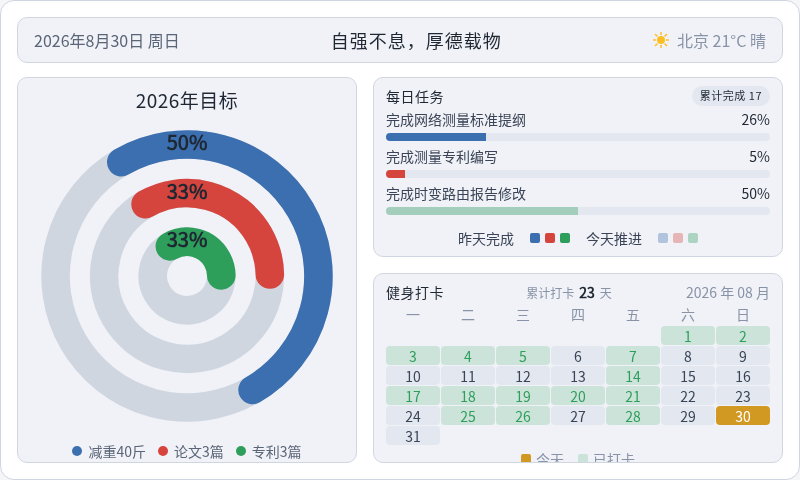
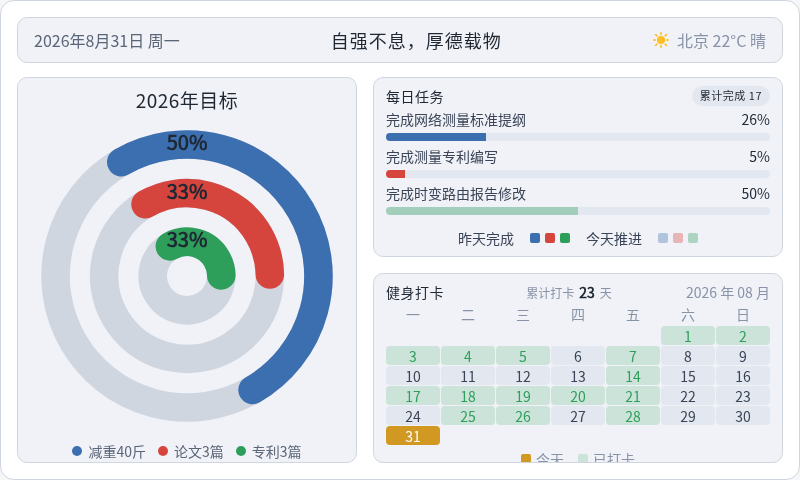
chore: 每日看板刷新 2026-08-31

Changed region(s): [[0.875, 0.8438, 0.9688, 0.9062], [0.4688, 0.875, 0.5625, 0.9375], [0.1875, 0.0625, 0.2188, 0.0938]]

diff --git a/output/dashboard.html b/output/dashboard.html
@@ -185,11 +185,11 @@
 <body>
   <div class="dash">
     <div class="topbar">
-      <div class="tb-date" id="tbDate">2026年8月30日 周日</div>
+      <div class="tb-date" id="tbDate">2026年8月31日 周一</div>
       <div class="tb-slogan">自强不息，厚德载物</div>
       <div class="tb-weather">
         <svg width="16" height="16" viewBox="0 0 16 16" aria-hidden="true"><circle cx="8" cy="8" r="4" fill="#fbbf24"/><g stroke="#fbbf24" stroke-width="1.5" stroke-linecap="round"><line x1="8" y1="0.5" x2="8" y2="2.5"/><line x1="8" y1="13.5" x2="8" y2="15.5"/><line x1="0.5" y1="8" x2="2.5" y2="8"/><line x1="13.5" y1="8" x2="15.5" y2="8"/><line x1="2.5" y1="2.5" x2="3.9" y2="3.9"/><line x1="12.1" y1="12.1" x2="13.5" y2="13.5"/><line x1="13.5" y1="2.5" x2="12.1" y2="3.9"/><line x1="3.9" y1="12.1" x2="2.5" y2="13.5"/></g></svg>
-        <span>北京 21°C 晴</span>
+        <span>北京 22°C 晴</span>
       </div>
     </div>
     <div class="content">
@@ -248,7 +248,7 @@
           <span class="cal-date">2026 年 08 月</span>
         </div>
         <div class="cal-grid wk"><span>一</span><span>二</span><span>三</span><span>四</span><span>五</span><span>六</span><span>日</span></div>
-        <div class="cal-grid"><span class="cell empty"></span><span class="cell empty"></span><span class="cell empty"></span><span class="cell empty"></span><span class="cell empty"></span><span class="cell done" style="background:rgba(46,158,91,0.18);color:#2e9e5b">1</span><span class="cell done" style="background:rgba(46,158,91,0.18);color:#2e9e5b">2</span><span class="cell done" style="background:rgba(46,158,91,0.18);color:#2e9e5b">3</span><span class="cell done" style="background:rgba(46,158,91,0.18);color:#2e9e5b">4</span><span class="cell done" style="background:rgba(46,158,91,0.18);color:#2e9e5b">5</span><span class="cell" style="background:#e3e8f0;color:#3a4456">6</span><span class="cell done" style="background:rgba(46,158,91,0.18);color:#2e9e5b">7</span><span class="cell" style="background:#e3e8f0;color:#3a4456">8</span><span class="cell" style="background:#e3e8f0;color:#3a4456">9</span><span class="cell" style="background:#e3e8f0;color:#3a4456">10</span><span class="cell" style="background:#e3e8f0;color:#3a4456">11</span><span class="cell" style="background:#e3e8f0;color:#3a4456">12</span><span class="cell" style="background:#e3e8f0;color:#3a4456">13</span><span class="cell done" style="background:rgba(46,158,91,0.18);color:#2e9e5b">14</span><span class="cell" style="background:#e3e8f0;color:#3a4456">15</span><span class="cell" style="background:#e3e8f0;color:#3a4456">16</span><span class="cell done" style="background:rgba(46,158,91,0.18);color:#2e9e5b">17</span><span class="cell done" style="background:rgba(46,158,91,0.18);color:#2e9e5b">18</span><span class="cell done" style="background:rgba(46,158,91,0.18);color:#2e9e5b">19</span><span class="cell done" style="background:rgba(46,158,91,0.18);color:#2e9e5b">20</span><span class="cell done" style="background:rgba(46,158,91,0.18);color:#2e9e5b">21</span><span class="cell" style="background:#e3e8f0;color:#3a4456">22</span><span class="cell" style="background:#e3e8f0;color:#3a4456">23</span><span class="cell" style="background:#e3e8f0;color:#3a4456">24</span><span class="cell done" style="background:rgba(46,158,91,0.18);color:#2e9e5b">25</span><span class="cell done" style="background:rgba(46,158,91,0.18);color:#2e9e5b">26</span><span class="cell" style="background:#e3e8f0;color:#3a4456">27</span><span class="cell done" style="background:rgba(46,158,91,0.18);color:#2e9e5b">28</span><span class="cell" style="background:#e3e8f0;color:#3a4456">29</span><span class="cell today" style="background:#d29922;color:#ffffff">30</span><span class="cell" style="background:#e3e8f0;color:#3a4456">31</span></div>
+        <div class="cal-grid"><span class="cell empty"></span><span class="cell empty"></span><span class="cell empty"></span><span class="cell empty"></span><span class="cell empty"></span><span class="cell done" style="background:rgba(46,158,91,0.18);color:#2e9e5b">1</span><span class="cell done" style="background:rgba(46,158,91,0.18);color:#2e9e5b">2</span><span class="cell done" style="background:rgba(46,158,91,0.18);color:#2e9e5b">3</span><span class="cell done" style="background:rgba(46,158,91,0.18);color:#2e9e5b">4</span><span class="cell done" style="background:rgba(46,158,91,0.18);color:#2e9e5b">5</span><span class="cell" style="background:#e3e8f0;color:#3a4456">6</span><span class="cell done" style="background:rgba(46,158,91,0.18);color:#2e9e5b">7</span><span class="cell" style="background:#e3e8f0;color:#3a4456">8</span><span class="cell" style="background:#e3e8f0;color:#3a4456">9</span><span class="cell" style="background:#e3e8f0;color:#3a4456">10</span><span class="cell" style="background:#e3e8f0;color:#3a4456">11</span><span class="cell" style="background:#e3e8f0;color:#3a4456">12</span><span class="cell" style="background:#e3e8f0;color:#3a4456">13</span><span class="cell done" style="background:rgba(46,158,91,0.18);color:#2e9e5b">14</span><span class="cell" style="background:#e3e8f0;color:#3a4456">15</span><span class="cell" style="background:#e3e8f0;color:#3a4456">16</span><span class="cell done" style="background:rgba(46,158,91,0.18);color:#2e9e5b">17</span><span class="cell done" style="background:rgba(46,158,91,0.18);color:#2e9e5b">18</span><span class="cell done" style="background:rgba(46,158,91,0.18);color:#2e9e5b">19</span><span class="cell done" style="background:rgba(46,158,91,0.18);color:#2e9e5b">20</span><span class="cell done" style="background:rgba(46,158,91,0.18);color:#2e9e5b">21</span><span class="cell" style="background:#e3e8f0;color:#3a4456">22</span><span class="cell" style="background:#e3e8f0;color:#3a4456">23</span><span class="cell" style="background:#e3e8f0;color:#3a4456">24</span><span class="cell done" style="background:rgba(46,158,91,0.18);color:#2e9e5b">25</span><span class="cell done" style="background:rgba(46,158,91,0.18);color:#2e9e5b">26</span><span class="cell" style="background:#e3e8f0;color:#3a4456">27</span><span class="cell done" style="background:rgba(46,158,91,0.18);color:#2e9e5b">28</span><span class="cell" style="background:#e3e8f0;color:#3a4456">29</span><span class="cell" style="background:#e3e8f0;color:#3a4456">30</span><span class="cell today" style="background:#d29922;color:#ffffff">31</span></div>
         <div class="cal-legend">
           <span style="color:#8893a7"><i class="sw" style="background:#d29922"></i>今天</span>
           <span style="color:#8893a7"><i class="sw" style="background:rgba(46,158,91,0.18)"></i>已打卡</span>
